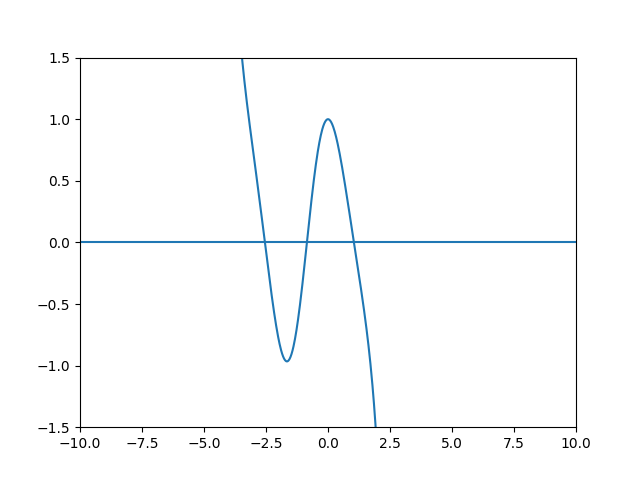
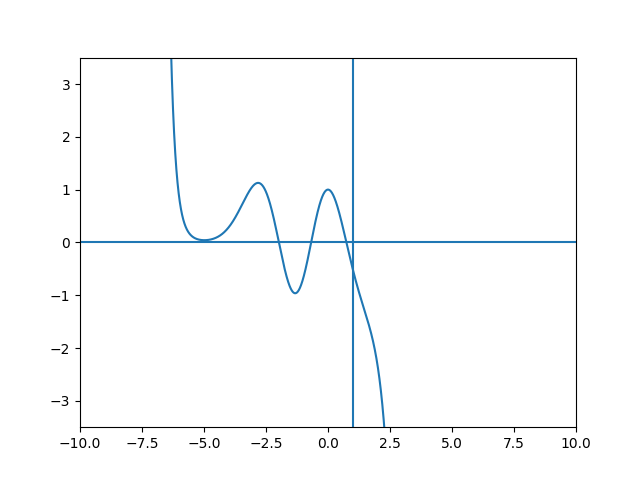
wag tail power series

diff --git a/power_series/testing.py b/power_series/testing.py
@@ -1,6 +1,7 @@
 import numpy as np
 import matplotlib.pyplot as plt
 
+
 # input 4 [a0 a1 a2 a3] lambda shift_xi
 def recursion_relationship(recursion_index, recursion_coefficients, shifted_energy, potential_shift):
     """
@@ -15,7 +16,7 @@ def recursion_relationship(recursion_index, recursion_coefficients, shifted_ener
                       ((recursion_index - 1) * (recursion_index))
 
     # new_coefficient = -recursion_coefficients[2]/(recursion_index+2)
-    return new_coefficient # a4
+    return new_coefficient  # a4
 
 
 def wave_function(reduced_position, maximum_coefficient, starting_coefficients, simulation_parameters):
@@ -51,54 +52,57 @@ if __name__ == '__main__':
     shift_xi = 1
     # parkers epsilon: 0.3094688	0.73422037	1.49997346	2.19740304	2.99866356
 
-    epsilon = 4.609 # 1.500 n=1 shift=1 2.998601 # 6.27841
-    # 0.309459 first state (bell curve blown up at the end) note due to no trunkation, positive xi blows up exponentially
+    #epsilon = 1.6  # 1.500 n=1 shift=1 2.998601 # 6.27841
+    #for epsilon in np.linspace(0, 1.5, 15):
+    for epsilon in np.linspace(4.3, 4.4, 10):
+        # 0.309459 first state (bell curve blown up at the end) note due to no trunkation, positive xi blows up exponentially
 
-    # 1.500000 second state (end behavior again messed up dueto no trunkation)
+        # 1.500000 second state (end behavior again messed up dueto no trunkation)
 
-    eigenvalue = epsilon - shift_xi**2/2
-    """
-    Here we wish to loop over many epsilons to find multiply eigenvalues via wag the dog
-    
-    for epsilon in range(0, 4, 1):
         eigenvalue = epsilon - shift_xi ** 2 / 2
+        """
+        Here we wish to loop over many epsilons to find multiply eigenvalues via wag the dog
 
-        reduced_positions = np.linspace(-10, 10, num=1_000)
-        maximum_index = 10_000
+        for epsilon in range(0, 4, 1):
+            eigenvalue = epsilon - shift_xi ** 2 / 2
+
+            reduced_positions = np.linspace(-10, 10, num=1_000)
+            maximum_index = 10_000
+            initial_coefficients = [a_0, a_1]
+
+            psi_values = wave_function(reduced_positions, maximum_index, initial_coefficients, [eigenvalue, shift_xi])
+            recursion_relationship(4, initial_coefficients, eigenvalue, shift_xi)
+            plt.plot(reduced_positions, psi_values)
+            plt.xlim([-10, 10])
+            plt.ylim([-3.5, 3.5])
+        plt.show()
+    """
+
+        #print(f'a_2 = {indicial_equations(eigenvalue, [a_0, a_1])[0]},'
+        #      f'a_3 = {indicial_equations(eigenvalue, [a_0, a_1])[1]}')
+        # print(f' a_terms = {recursion_relation(indicial_equations(eigenvalue), eigenvalue)}')
+        # print(plot_expansion(recursion_relation(indicial_equations(eigenvalue), eigenvalue)))
         initial_coefficients = [a_0, a_1]
+        for coefficient in indicial_equations(eigenvalue, initial_coefficients):
+            initial_coefficients.append(coefficient)
+        #print(initial_coefficients)
+        #print(recursion_relationship(4, initial_coefficients, eigenvalue, shift_xi))  # I agree
+
+        reduced_positions = np.linspace(-10, 10, num=10_001)
+        maximum_index = 10_000
+        #
+        # print(len(reduced_positions)) = 1000
+        # print(len(wave_function(reduced_positions, maximum_index, initial_coefficients, [eigenvalue, shift_xi])[1])) = 10,001
 
         psi_values = wave_function(reduced_positions, maximum_index, initial_coefficients, [eigenvalue, shift_xi])
-        recursion_relationship(4, initial_coefficients, eigenvalue, shift_xi)
+        #
         plt.plot(reduced_positions, psi_values)
         plt.xlim([-10, 10])
         plt.ylim([-3.5, 3.5])
+        plt.axhline()
+        plt.axvline(1)
+        # plt.savefig("eigenvalue_1")
     plt.show()
-"""
+        # print(epsilon)
 
-    print(f'a_2 = {indicial_equations(eigenvalue, [a_0, a_1])[0]},'
-          f'a_3 = {indicial_equations(eigenvalue, [a_0, a_1])[1]}')
-    # print(f' a_terms = {recursion_relation(indicial_equations(eigenvalue), eigenvalue)}')
-    #print(plot_expansion(recursion_relation(indicial_equations(eigenvalue), eigenvalue)))
-    initial_coefficients = [a_0, a_1]
-    for coefficient in indicial_equations(eigenvalue, initial_coefficients):
-        initial_coefficients.append(coefficient)
-    print(initial_coefficients)
-    print(recursion_relationship(4, initial_coefficients, eigenvalue, shift_xi)) # I agree
-
-    reduced_positions = np.linspace(-10, 10, num=10_001)
-    maximum_index = 10_000
-    #
-    #print(len(reduced_positions)) = 1000
-    #print(len(wave_function(reduced_positions, maximum_index, initial_coefficients, [eigenvalue, shift_xi])[1])) = 10,001
-
-    psi_values = wave_function(reduced_positions, maximum_index, initial_coefficients, [eigenvalue, shift_xi])
-    #
-    plt.plot(reduced_positions, psi_values)
-    plt.xlim([-10, 10])
-    plt.ylim([-3.5, 3.5])
-    plt.axhline()
-    plt.axvline(1)
-    plt.savefig("eigenvalue_5")
-    plt.show()
-    # print(epsilon)
 

diff --git a/power_series/peters_power_series code.py b/power_series/peters_power_series code.py
@@ -1,0 +1,80 @@
+import numpy as np
+import matplotlib.pyplot as plt
+
+"""
+a_0 = eval(input('a_0 = '))
+a_1 = eval(input('a_1 = '))
+epsilon = eval(input('epsilon = '))
+shift_xi = eval(input('shift_xi = '))
+"""
+# make a function that takes previous value and outputs new term
+# make another function to call the coeff.
+
+
+def recursion_relation(indicial_terms, eigenvalue):
+    a_2, a_3 = indicial_terms
+    if shift_xi >= 0:
+        a_4 = (-2*eigenvalue*a_2 + a_0 + 2*shift_xi*a_1)/(4*3)
+        a_5 = (-2*eigenvalue*a_3 + a_1 + 2*shift_xi*a_2)/(5*4)
+        a_6 = (-2*eigenvalue*a_4 + a_2 + 2*shift_xi*a_3)/(6*5)
+        a_7 = (-2*eigenvalue*a_5 + a_3 + 2*shift_xi*a_4)/(7*6)
+        a_8 = (-2*eigenvalue*a_6 + a_4 + 2*shift_xi*a_5)/(8*7)
+        a_9 = (-2*eigenvalue*a_7 + a_5 + 2*shift_xi*a_6)/(9*8)
+        a_10 = (-2*eigenvalue*a_8 + a_6 + 2*shift_xi*a_7)/(10*9)
+        # a_terms = [a_0, a_1, indicial_terms[0], indicial_terms[1], a_4, a_5, a_6, a_7, a_8, a_9]
+    if shift_xi < 0:
+        a_4 = (-2*eigenvalue * a_2 + a_0 - 2 * shift_xi * a_1) / (4 * 3)
+        a_5 = (-2*eigenvalue * a_3 + a_1 - 2 * shift_xi * a_2) / (5 * 4)
+        a_6 = (-2*eigenvalue * a_4 + a_2 - 2 * shift_xi * a_3) / (6 * 5)
+        a_7 = (-2*eigenvalue * a_5 + a_3 - 2 * shift_xi * a_4) / (7 * 6)
+        a_8 = (-2*eigenvalue * a_6 + a_4 - 2 * shift_xi * a_5) / (8 * 7)
+        a_9 = (-2*eigenvalue * a_7 + a_5 - 2 * shift_xi * a_6) / (9 * 8)
+        a_10 = (-2*eigenvalue*a_8 + a_6 - 2*shift_xi*a_7)/(10*9)
+
+    a_terms = [a_0, a_1, a_2, a_3, a_4, a_5, a_6, a_7, a_8, a_9, a_10]
+    return a_terms
+
+
+def plot_expansion(coefficients):
+    xi = np.linspace(-10, 10, 1000)
+    psi_array = []
+    # for i coef do a_i*xi**i
+    for i in xi:
+        psi = coefficients[0] * i**0 + coefficients[1] * i**1 + coefficients[2] * i**2 + coefficients[3] * i**3 + \
+              coefficients[4] * i**4 + coefficients[5] * i**5 + coefficients[6] * i**6 + coefficients[7] * i**7 + \
+              coefficients[8] * i**8 + coefficients[9] * i**9 + coefficients[10] * i**10
+        psi_array.append(psi)
+    x_label = plt.xlabel('xi')
+    y_label = plt.ylabel('psi')
+    plt.plot(xi, psi_array)
+    plt.ylim([-1, 1])
+    plt.show()
+    return psi_array
+
+
+def indicial_equations(eigenvalue, coefficients):
+    a_2 = -eigenvalue*coefficients[0]
+    if shift_xi >= 0:
+        a_3 = -(eigenvalue*coefficients[1] - shift_xi*coefficients[0])/3
+    if shift_xi < 0:
+        a_3 = -(eigenvalue*coefficients[1] + shift_xi*coefficients[0])/3
+
+    #if shift_xi == 0:
+    #    a_3 = 'this is a harmonic oscillator'
+    return [a_2, a_3]
+
+
+if __name__ == '__main__':
+    """
+    a_0 = 1, a_1 = 0, shift = 0, eigenvalue = 0.5
+    a_0 = 0, a_1 = 1, shift = 0, eigenvalue = 1.5
+    a_0 = 1, a_1 = 0, shift = 0, eigenvalue = 2.5
+    .
+    .
+    .
+    """
+    a_0 = 1
+    a_1 = 0
+    # eigenvalue should be 0.5, (bell curve)
+    # then set a_0 = 0, a_1 = 1, and search for another value
+    # eigenvalue =   # (epsilon - shift_xi^2/2)
